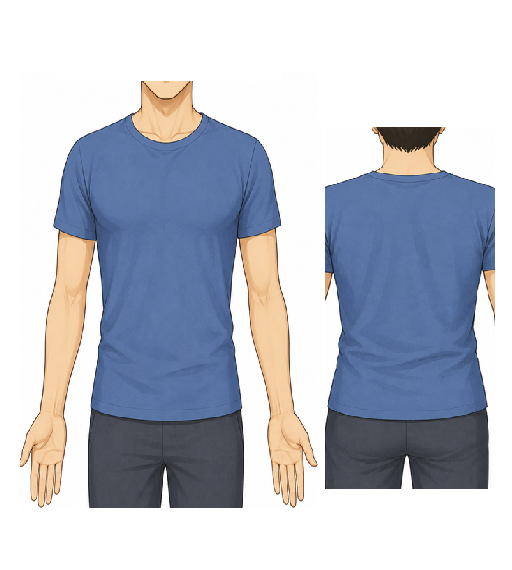
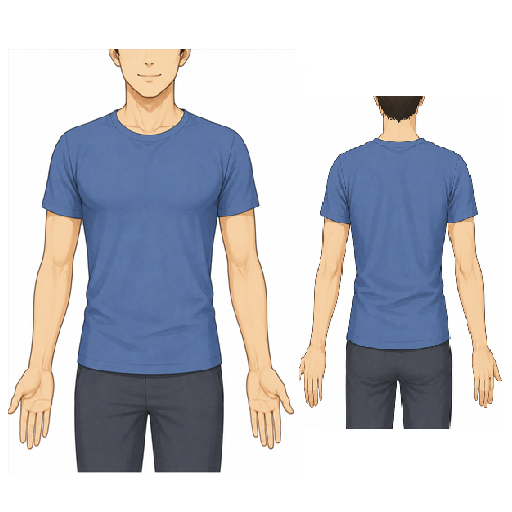
Fix upper body data & images

Changed region(s): [[0.0, 0.0938, 1.0, 0.9375]]

diff --git a/dev/zahyo.html b/dev/zahyo.html
@@ -69,7 +69,7 @@
     <div class="image-wrapper">
 
         <img
-            src="../images/body/upperParts.png"
+            src="../images/body/test.png"
             id="bodyImage"
         >
 